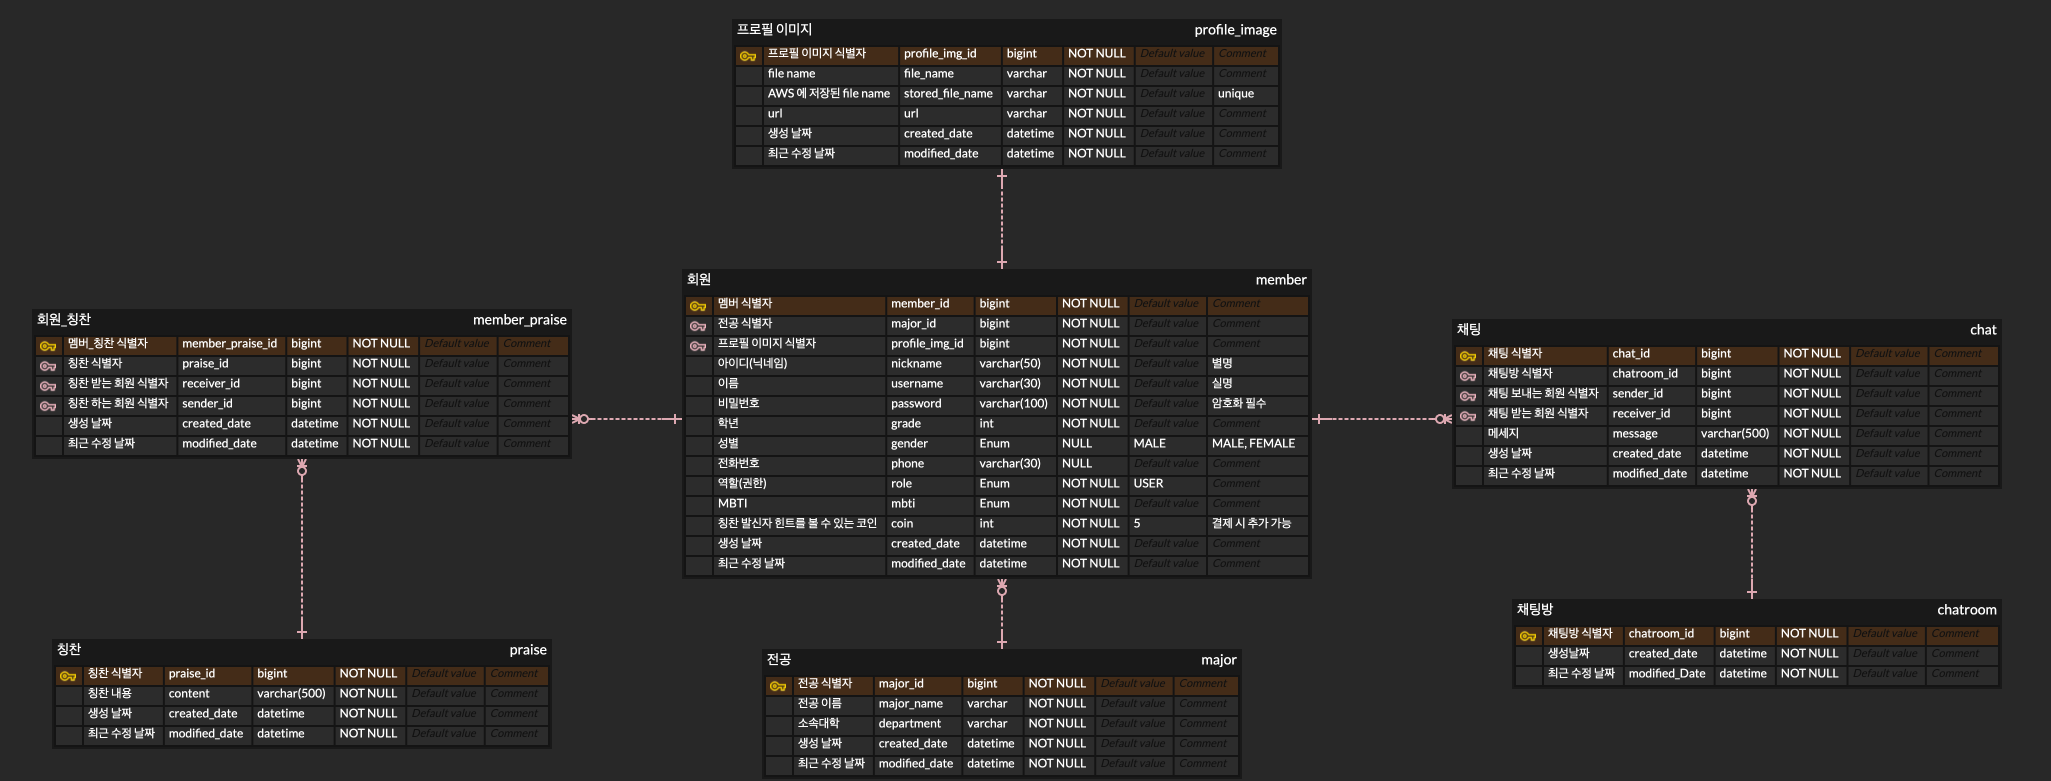
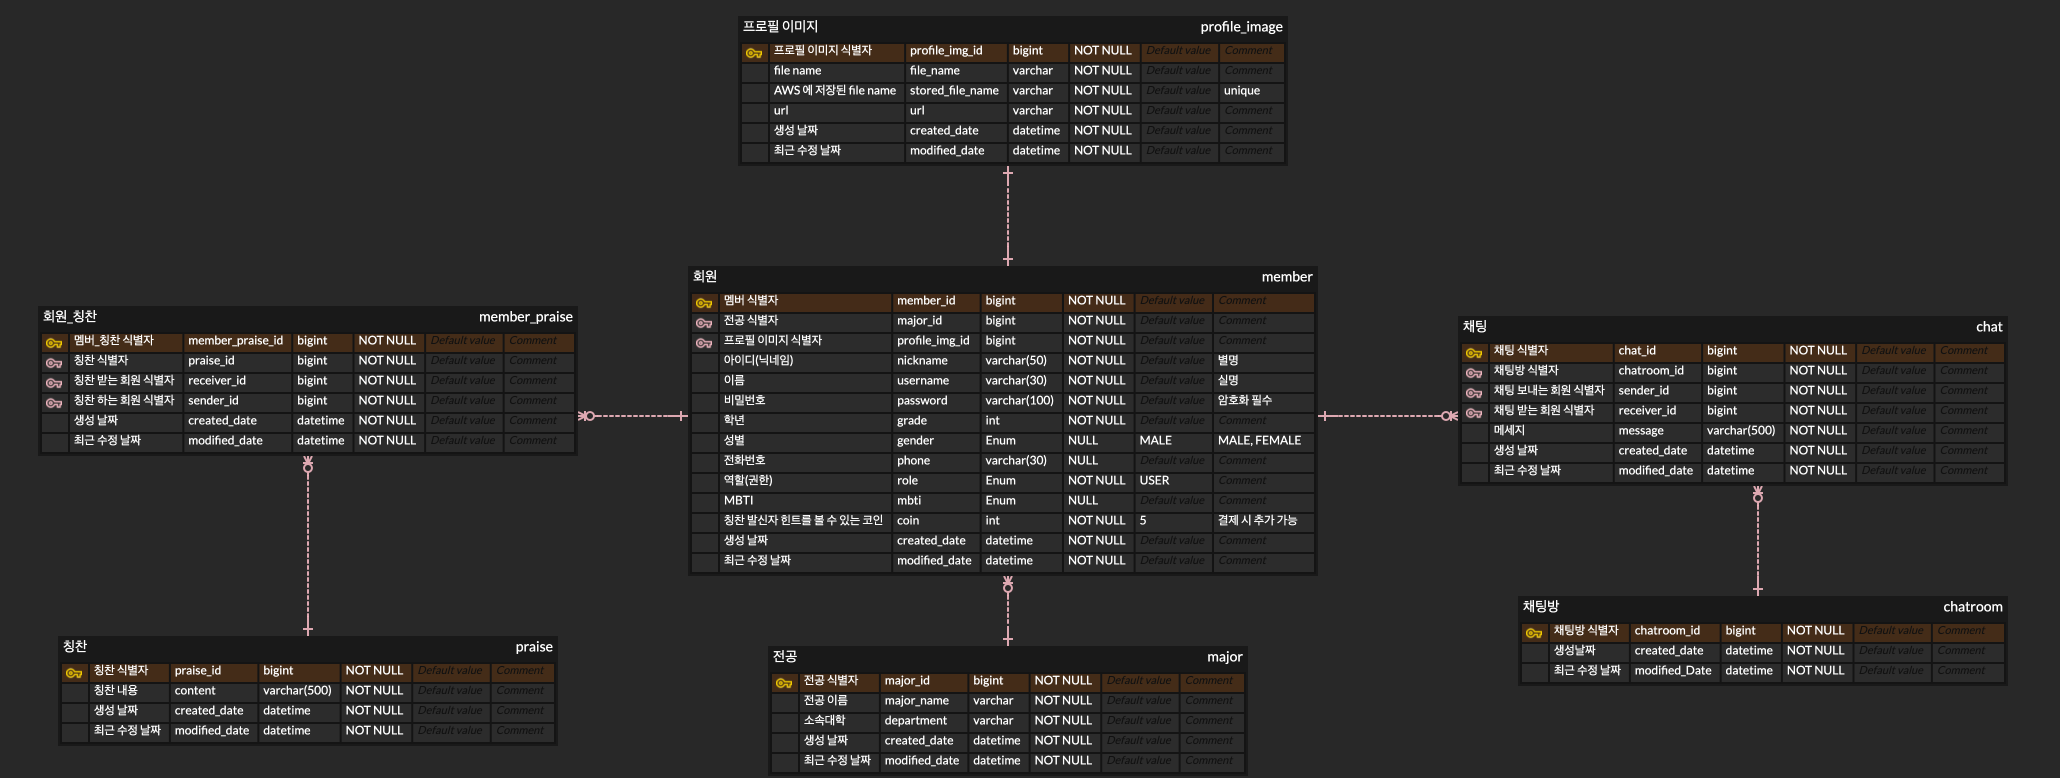
erd 수정 및 엔티티 설정
1. erd 에서 회원의 MBTI를 NOT NULL -> NULL 로 설정
2. erd 를 반영한 엔티티를 설정
3. Member의 실명 name -> userName으로 변경

diff --git a/src/main/java/com/rainmaker/rainmaker/entity/Member.java b/src/main/java/com/rainmaker/rainmaker/entity/Member.java
@@ -8,6 +8,7 @@ import lombok.NoArgsConstructor;
 import org.springframework.security.crypto.password.PasswordEncoder;
 
 import javax.persistence.*;
+import javax.validation.constraints.NotNull;
 
 @Entity
 @Getter
@@ -15,69 +16,87 @@ import javax.persistence.*;
 public class Member extends BaseTimeEntity {
 
     @Builder
-    public Member(Major major, String password, String name, String nickName, int grade, Gender gender, Role role, String phone) {
+    public Member(Major major, String password, String userName, String nickName, int grade, Gender gender, Role role, String phone, Mbti mbti) {
         this.major = major;
         this.password = password;
-        this.name = name;
+        this.userName = userName;
         this.nickName = nickName;
         this.grade = grade;
         this.gender = gender;
         this.role = role;
         this.phone = phone;
+        this.mbti = mbti;
+        this.coin = 5; // 사용자 처음 생성 시 사용할 수 있는 코인은 5가 default
     }
 
-    @Id @GeneratedValue(strategy = GenerationType.IDENTITY)
+    @Id
+    @GeneratedValue(strategy = GenerationType.IDENTITY)
     @Column(name = "member_id")
     private Long id;
 
     @ManyToOne(fetch = FetchType.LAZY)
-    @JoinColumn(name = "majorId")
+    @JoinColumn(name = "major_id")
+    @NotNull
     private Major major;
 
-    // TODO 프로필 이미지 url
+    @OneToOne(fetch = FetchType.LAZY)
+    @JoinColumn(name = "profile_image_id")
+    private ProfileImage profileImage;
 
     @Column(length = 15, unique = true)
+    @NotNull
     private String nickName; // 이름(별명) 아이디로 사용
 
+    @Column(length = 15)
+    @NotNull
+    private String userName; // 이름(실명)
+
     @Column(length = 100)
+    @NotNull
     private String password;
 
-    @Column(length = 15)
-    private String name; // 이름(실명)
-
+    @NotNull
     private int grade;
 
     @Enumerated(EnumType.STRING)
     private Gender gender;
 
-    @Enumerated(EnumType.STRING)
-    private Role role;
-
     @Column(length = 30)
     private String phone;
 
+    @Enumerated(EnumType.STRING)
+    private Role role;
+
+    @Enumerated(EnumType.STRING)
+    private Mbti mbti;
+
+    @NotNull
+    private int coin;
+
     /**
      * password를 암호화한다.
+     *
      * @param passwordEncoder
      */
-    public void encodePassword(PasswordEncoder passwordEncoder){
+    public void encodePassword(PasswordEncoder passwordEncoder) {
         this.password = passwordEncoder.encode(password);
     }
 
     /**
      * 비밀번호가 일치하는지 확인하는 메소드
+     *
      * @param passwordEncoder
      * @param checkPassword
      * @return 비밀번호가 일치하면 true
      */
-    public boolean matchPassword(PasswordEncoder passwordEncoder, String checkPassword){
+    public boolean matchPassword(PasswordEncoder passwordEncoder, String checkPassword) {
         return passwordEncoder.matches(checkPassword, getPassword());
     }
 
     /**
      * 회원가입할 때, USER의 권한을 부여한다.
      */
-    public void addUserAuthority(){
+    public void addUserAuthority() {
         this.role = Role.USER;
     }
 }

diff --git a/src/main/java/com/rainmaker/rainmaker/entity/ProfileImage.java b/src/main/java/com/rainmaker/rainmaker/entity/ProfileImage.java
@@ -1,0 +1,51 @@
+package com.rainmaker.rainmaker.entity;
+
+import com.rainmaker.rainmaker.entity.base.BaseTimeEntity;
+import lombok.AccessLevel;
+import lombok.Builder;
+import lombok.Getter;
+import lombok.NoArgsConstructor;
+
+import javax.persistence.*;
+import javax.validation.constraints.NotNull;
+import java.util.Objects;
+
+@Entity
+@Getter
+@NoArgsConstructor(access = AccessLevel.PROTECTED)
+public class ProfileImage extends BaseTimeEntity {
+    @Id
+    @GeneratedValue(strategy = GenerationType.IDENTITY)
+    @Column(name = "profile_img_id")
+    private Long id;
+
+    @NotNull
+    private String fileName;
+
+    @NotNull
+    private String storedFileName;
+
+    @NotNull
+    private String url;
+
+
+    @Builder
+    public ProfileImage(String fileName, String storedFileName, String url) {
+        this.fileName = fileName;
+        this.storedFileName = storedFileName;
+        this.url = url;
+    }
+
+    @Override
+    public boolean equals(Object o) {
+        if (this == o) return true;
+        if (!(o instanceof ProfileImage)) return false;
+        ProfileImage that = (ProfileImage) o;
+        return this.getId() != null && this.getId().equals(that.getId());
+    }
+
+    @Override
+    public int hashCode() {
+        return Objects.hash(this.getId());
+    }
+}

diff --git a/src/main/java/com/rainmaker/rainmaker/entity/MemberPraise.java b/src/main/java/com/rainmaker/rainmaker/entity/MemberPraise.java
@@ -1,0 +1,34 @@
+package com.rainmaker.rainmaker.entity;
+
+import com.rainmaker.rainmaker.entity.base.BaseTimeEntity;
+import lombok.AccessLevel;
+import lombok.Getter;
+import lombok.NoArgsConstructor;
+
+import javax.persistence.*;
+import javax.validation.constraints.NotNull;
+
+@Entity
+@Getter
+@NoArgsConstructor(access = AccessLevel.PROTECTED)
+public class MemberPraise extends BaseTimeEntity {
+    @Id
+    @GeneratedValue(strategy = GenerationType.IDENTITY)
+    @Column(name = "member_praise_id")
+    private Long id;
+
+    @ManyToOne(fetch = FetchType.LAZY)
+    @Column(name = "praise_id")
+    @NotNull
+    private Praise praise;
+
+    @ManyToOne(fetch = FetchType.LAZY)
+    @Column(name = "receiver_id")
+    @NotNull
+    private Member receiver;
+
+    @ManyToOne(fetch = FetchType.LAZY)
+    @Column(name = "sender_id")
+    @NotNull
+    private Member sender;
+}

diff --git a/src/main/java/com/rainmaker/rainmaker/entity/Chat.java b/src/main/java/com/rainmaker/rainmaker/entity/Chat.java
@@ -1,0 +1,37 @@
+package com.rainmaker.rainmaker.entity;
+
+import com.rainmaker.rainmaker.entity.base.BaseTimeEntity;
+import lombok.AccessLevel;
+import lombok.Getter;
+import lombok.NoArgsConstructor;
+
+import javax.persistence.*;
+import javax.validation.constraints.NotNull;
+
+@Entity
+@Getter
+@NoArgsConstructor(access = AccessLevel.PROTECTED)
+public class Chat extends BaseTimeEntity {
+
+    @Id
+    @GeneratedValue(strategy = GenerationType.IDENTITY)
+    @Column(name = "chat_id")
+    private Long id;
+
+    @ManyToOne(fetch = FetchType.LAZY)
+    @NotNull
+    private Chatroom chatroom;
+
+    @OneToOne(fetch = FetchType.LAZY)
+    @NotNull
+    @Column(name = "sender_id")
+    private Member sender;
+
+    @OneToOne(fetch = FetchType.LAZY)
+    @NotNull
+    @Column(name = "receiver_id")
+    private Member receiver;
+
+    @NotNull
+    private String message;
+}

diff --git a/src/main/java/com/rainmaker/rainmaker/dto/member/MemberDto.java b/src/main/java/com/rainmaker/rainmaker/dto/member/MemberDto.java
@@ -32,14 +32,14 @@ public class MemberDto {
 
     public static MemberDto from(Member member) {
         return MemberDto.of(
-                member.getId(), member.getName(), member.getNickName(), member.getPassword(),
+                member.getId(), member.getUserName(), member.getNickName(), member.getPassword(),
                 member.getPhone(), member.getGrade(), member.getGender(), MajorDto.from(member.getMajor()));
     }
 
     public Member toEntity(Major major) {
         return Member.builder()
                 .major(major)
-                .name(getUserName())
+                .userName(getUserName())
                 .nickName(getNickName())
                 .password(getPassword())
                 .grade(getGrade())

diff --git a/src/test/java/com/rainmaker/rainmaker/entity/MemberTest.java b/src/test/java/com/rainmaker/rainmaker/entity/MemberTest.java
@@ -1,10 +1,11 @@
 package com.rainmaker.rainmaker.entity;
 
-import javax.persistence.EntityManager;
 import org.junit.jupiter.api.Test;
 import org.springframework.beans.factory.annotation.Autowired;
 import org.springframework.boot.test.context.SpringBootTest;
 import org.springframework.transaction.annotation.Transactional;
+
+import javax.persistence.EntityManager;
 
 import static org.assertj.core.api.Assertions.assertThat;
 
@@ -22,7 +23,7 @@ class MemberTest {
         em.persist(major);
 
         Member member = Member.builder()
-                .name("유저1")
+                .userName("유저1")
                 .nickName("별명1")
                 .grade(1)
                 .gender(Gender.FEMALE)

diff --git a/src/main/java/com/rainmaker/rainmaker/entity/Praise.java b/src/main/java/com/rainmaker/rainmaker/entity/Praise.java
@@ -1,0 +1,23 @@
+package com.rainmaker.rainmaker.entity;
+
+import com.rainmaker.rainmaker.entity.base.BaseTimeEntity;
+import lombok.AccessLevel;
+import lombok.Getter;
+import lombok.NoArgsConstructor;
+
+import javax.persistence.*;
+import javax.validation.constraints.NotNull;
+
+@Entity
+@Getter
+@NoArgsConstructor(access = AccessLevel.PROTECTED)
+public class Praise extends BaseTimeEntity {
+
+    @Id
+    @GeneratedValue(strategy = GenerationType.IDENTITY)
+    @Column(name = "praise_id")
+    private Long id;
+
+    @NotNull
+    private String content;
+}

diff --git a/src/main/java/com/rainmaker/rainmaker/entity/Chatroom.java b/src/main/java/com/rainmaker/rainmaker/entity/Chatroom.java
@@ -1,0 +1,19 @@
+package com.rainmaker.rainmaker.entity;
+
+import com.rainmaker.rainmaker.entity.base.BaseTimeEntity;
+import lombok.AccessLevel;
+import lombok.Getter;
+import lombok.NoArgsConstructor;
+
+import javax.persistence.*;
+
+@Entity
+@Getter
+@NoArgsConstructor(access = AccessLevel.PROTECTED)
+public class Chatroom extends BaseTimeEntity {
+    @Id
+    @GeneratedValue(strategy = GenerationType.IDENTITY)
+    @Column(name = "chatroom_id")
+    private Long id;
+
+}

diff --git a/src/main/java/com/rainmaker/rainmaker/entity/Mbti.java b/src/main/java/com/rainmaker/rainmaker/entity/Mbti.java
@@ -1,0 +1,6 @@
+package com.rainmaker.rainmaker.entity;
+
+public enum Mbti {
+    ESTP, ESTJ, ESFP, ESFJ, ENFP, ENFJ, ENTP, ENTJ,
+    ISTP, ISTJ, ISFP, ISFJ, INFP, INFJ, INTP, INTJ
+}
